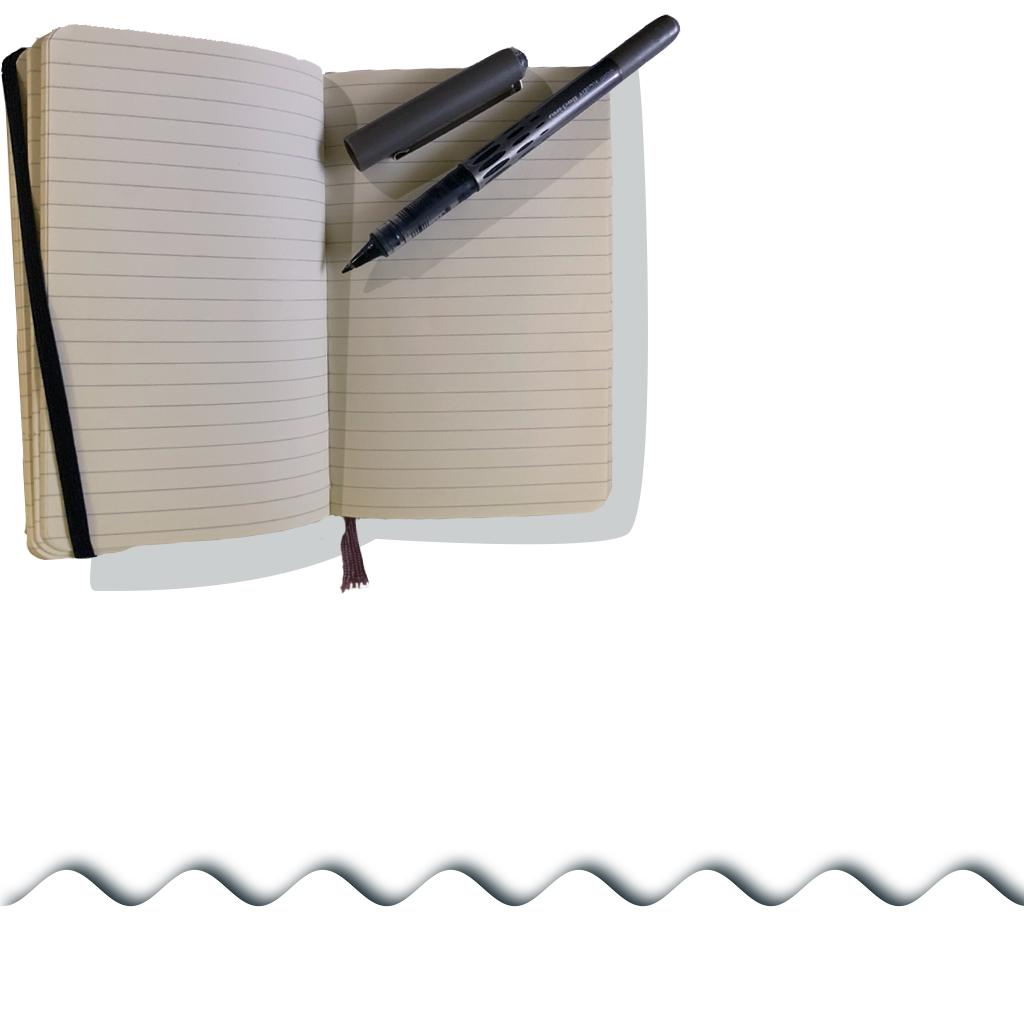
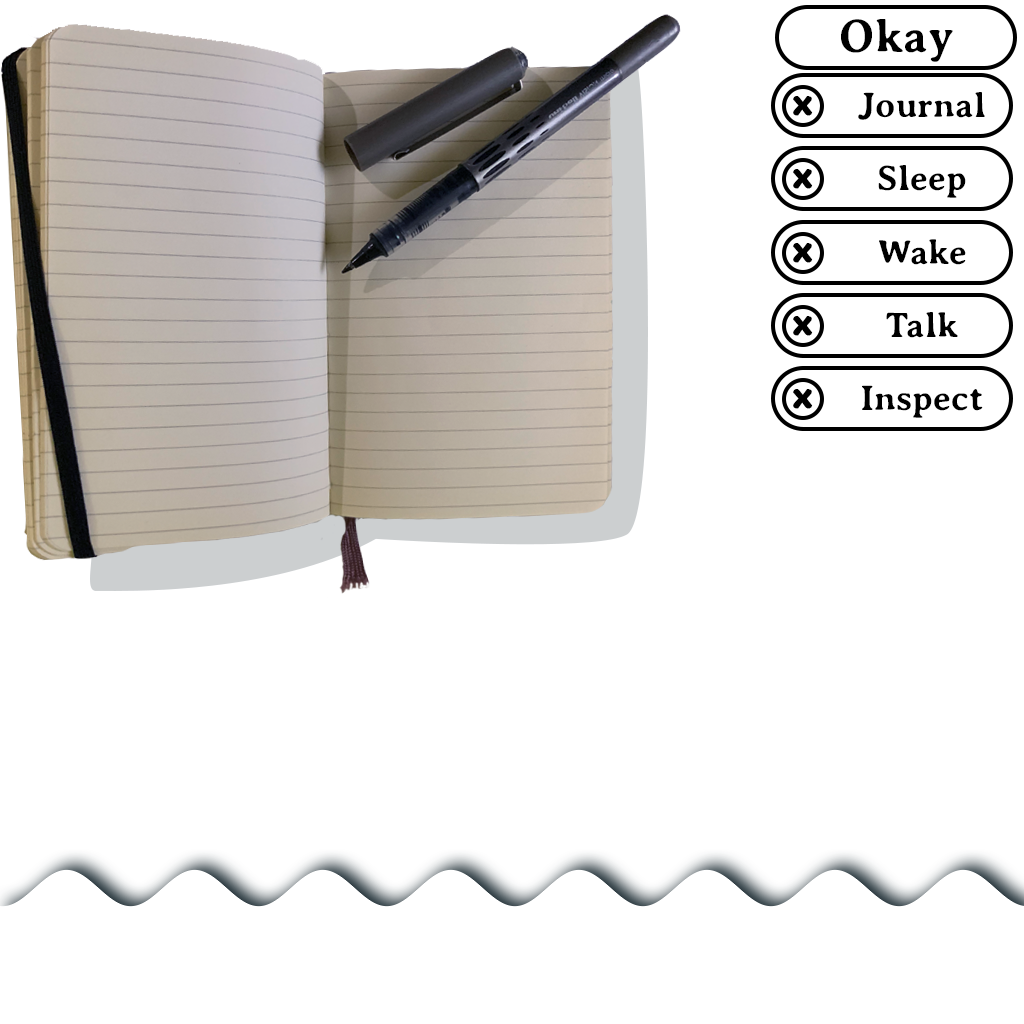
Got jounral working

Changed region(s): [[0.75, 0.0, 1.0, 0.4375]]

diff --git a/ld48_deeper/ld48_deeper.cpp b/ld48_deeper/ld48_deeper.cpp
@@ -79,6 +79,16 @@ typedef struct Actor_s
 #define CAM_HITE_ZOOMED ( 7.0f )
 #define CAM_HITE_WIDE ( 30.0f )
 
+enum {
+    ACTION_None,
+
+    ACTION_Journal,
+    ACTION_Sleep,
+    ACTION_Wake,
+    ACTION_Talk,
+    ACTION_Inspect,
+};
+
 #define MAX_KEYCODE (400)
 typedef struct GameState_s
 {
@@ -92,6 +102,13 @@ typedef struct GameState_s
     TKSpriteHandle spriteUIRoundRect;
     TKSpriteHandle spriteUIWaves;
 
+    TKSpriteHandle btnOkay;
+    TKSpriteHandle btnJournal;
+    TKSpriteHandle btnSleep;
+    TKSpriteHandle btnWake;
+    TKSpriteHandle btnTalk;
+    TKSpriteHandle btnInspect;
+
     uint64_t ticks;
 
     glm::vec3 camFocus;
@@ -100,7 +117,8 @@ typedef struct GameState_s
     float camHiteTarget;
 
     // UI stuff
-    bool show_journal;
+    int availAction;
+    bool show_journal;    
     bool show_wordlist;
     bool show_dialog;
 
@@ -211,11 +229,19 @@ static void init()
     game.spriteUIRoundRect = tk_sprite_make_st( "ui_stuff.png", glm::vec2( 0.0f, 748.0 / 1024.0 ), glm::vec2( 1.0, 844.0 / 1024.0) );
     game.spriteUIHalftone = tk_sprite_make_st( "ui_stuff.png", glm::vec2( 0.0f, 645.0 / 1024.0 ), glm::vec2( 1.0, 717.0 / 1024.0) );
     
+    float buttonSz = 72.0f;
+    game.btnOkay = tk_sprite_make_st( "ui_stuff.png", glm::vec2( 748.0 / 1024.0, 0.0f), glm::vec2( 1.0f, 72.0f / 1024.0 ) );
+    game.btnJournal = tk_sprite_make_st( "ui_stuff.png", glm::vec2( 748.0 / 1024.0, (buttonSz * 1.0f) / 1024.0f), glm::vec2( 1.0f, (buttonSz * 2.0f) / 1024.0f ) );
+    game.btnSleep;
+    game.btnWake;
+    game.btnTalk;
+    game.btnInspect;
+
     tk_sprite_mark_ui( "ui_stuff.png" );
 
     game.camHite = CAM_HITE_WIDE;
     game.camHiteTarget = CAM_HITE_ZOOMED;
-    game.currRoom = &room_Level_0;
+    game.currRoom = &room_LivingRoom;
 
     game.player.pos = glm::vec3( 9.5f, -5.5f, 0.0f );
 
@@ -253,25 +279,28 @@ RoomInfo *room_for_world_pos( glm::vec3 pos )
     return NULL;
 }
 
-float emit_norm_text( FONScontext* fs, char *text, float cx, float cy )
+float emit_norm_text( FONScontext* fs, char *text, float cx, float cy, float fontSize )
 {
+
+    //sdtx_printf("EMIT: %3.0f %3.0f %s\n", cx, cy, text);
+
     uint32_t black32 = sfons_rgba(0, 0, 0, 255);
     fonsSetFont(fs, font.font_normal);
-    fonsSetSize(fs, 36.0f );
+    fonsSetSize(fs, fontSize );
     fonsSetColor(fs, black32 );
     return fonsDrawText(fs, cx, cy, text, NULL);
 }
 
-float emit_dream_text( FONScontext* fs, char *text, float cx, float cy )
+float emit_dream_text( FONScontext* fs, char *text, float cx, float cy, float fontSize )
 {
     uint32_t blue32  = sfons_rgba(0, 192, 255, 255); 
     fonsSetFont(fs, font.font_dream);
-    fonsSetSize(fs, 36.0f );
+    fonsSetSize(fs, fontSize );
     fonsSetColor(fs, blue32 );
     return fonsDrawText(fs, cx, cy, text, NULL);
 }
 
-void wrap_dream_text( float x0, float x1, float y, char *text )
+void wrap_dream_text( float x0, float x1, float y, char *text, float fontSize )
 {
     FONScontext* fs = font.fons;
     float cx = x0;
@@ -279,6 +308,9 @@ void wrap_dream_text( float x0, float x1, float y, char *text )
 
     // TODO randomize color
     uint32_t blue32  = sfons_rgba(0, 192, 255, 255); 
+
+    fonsSetFont(fs, font.font_normal);
+    fonsSetSize(fs, fontSize );
     
 
     char buff[1024];
@@ -296,28 +328,40 @@ void wrap_dream_text( float x0, float x1, float y, char *text )
             if (nextx > x1) {
 
                 *dst = '\0';
-                cx = emit_norm_text( fs, buff, cx, cy );
+                cx = emit_norm_text( fs, buff, cx, cy, fontSize );
+                
                 dst = buff;
 
                 // This will wrap
-                cy += 36.0f;
+                cy += fontSize;
                 cx = x0;
                 ch++;
                 continue;                
             }
         }
 
+        // newline
+        if (*ch=='\n') {
+            *dst = '\0';
+            cx = emit_norm_text( fs, buff, cx, cy, fontSize );
+            dst = buff;
+            cy += fontSize * 1.5;
+            cx = x0;
+            ch++;
+            continue;                
+        }
+
         // append char
         if (*ch == '[')
         {
             *dst = '\0';
-            cx = emit_norm_text( fs, buff, cx, cy );
+            cx = emit_norm_text( fs, buff, cx, cy, fontSize );
             dst = buff;
         }
         else if (*ch == ']')
         {
             *dst = '\0';
-            cx = emit_dream_text( fs, buff, cx, cy );
+            cx = emit_dream_text( fs, buff, cx, cy, fontSize );
             dst = buff;
         }
         else 
@@ -329,7 +373,8 @@ void wrap_dream_text( float x0, float x1, float y, char *text )
     }
 
     if (strlen(buff)) {
-        emit_norm_text( fs, buff, cx, cy );
+        *dst = '\0';
+        emit_norm_text( fs, buff, cx, cy, fontSize );
     }
 
     /*
@@ -421,12 +466,18 @@ void frame()
             // Check if we're on a journal square
             if (room && room->journal.text)
             {
-                if (!room->journal.viewed)
-                {
-                    if ( (tx >= room.journal.tx) && (tx < room.journal.tx + room.journal.w) &&
-                         (ty >= room.journal.ty) && (ty < room.journal.ty + room.journal.h) ) {
-                        show_journal = true;
+                if ( (tx >= room->journal.tx) && (tx < room->journal.tx + room->journal.w) &&
+                    (ty >= room->journal.ty) && (ty < room->journal.ty + room->journal.h) ) {
+
+                    if (!room->journal.viewed)
+                    {
+                        game.show_journal = true;
+                    } else {
+                        // Let player view it again
+                        game.availAction = ACTION_Journal;
                     }
+                } else if (game.availAction == ACTION_Journal) {
+                    game.availAction = ACTION_None;
                 }
             }
         }
@@ -481,7 +532,7 @@ void frame()
     sgl_defaults();
     sgl_load_matrix( glm::value_ptr( cam ));
 
-    sdtx_printf("TILE: %d   %d\n", tx, ty );
+    //sdtx_printf("TILE: %d   %d\n", tx, ty );
 
 /*
     float rx = 0.0f;
@@ -549,10 +600,10 @@ void frame()
     {
         tk_push_sprite_scaled( game.spriteUIJournal, glm::vec3( canv_width / 2.0f, canv_height / 2.0f, 0.0f ), 500.0f );
 
-
+        //tk_push_sprite_scaled( game.btnOkay, glm::vec3( canv_width / 3.0f, canv_height / 4.0f, 0.0f ), 500.0 );
+        tk_push_sprite_scaled( game.btnOkay, glm::vec3( (canv_width / 2.0f) + 130.0f, 300.0f, 0.0f ), 300.0 );
     }
-
-    if (game.show_dialog)
+    else if (game.show_dialog)
     {
         //void tk_push_sprite_all( TKSpriteHandle sh, glm::vec3 pos, float scale, glm::vec4 color, float angle_deg );
         
@@ -567,8 +618,11 @@ void frame()
         tk_push_sprite_all( game.spriteUIRoundRect, glm::vec3( 0.0f, 250.0f, 0.0f), 380.0f, 
             glm::vec4( 100.0/255.0f, 30.0/255.0f, 250.0/255.0f, 1.0f), 0.0f );
 
-        
-
+    } else {
+        // No UI is up, show avail action if there is one
+        if (game.availAction != ACTION_None) {
+            tk_push_sprite_scaled( game.btnJournal, glm::vec3( (canv_width / 2.0f), 80.0f, 0.0f ), 400.0 );       
+        }
     }
 
     float textSz = 800.0f;// 800 "virtual" pixels
@@ -588,8 +642,8 @@ void frame()
     
         if (game.show_journal) {
             float col_journalstart = (canv_width / 2.0f) - 300.0f;
-            float col_journalend = (canv_width / 2.0f) + 100.0f;
-            wrap_dream_text( col_journalstart, col_journalend, 120.0f, currRoom->journal.text );
+            float col_journalend = (canv_width / 2.0f) - 100.0f;
+            wrap_dream_text( col_journalstart, col_journalend, 120.0f, game.currRoom->journal.text, 18.0f );
 
         } else if (game.show_wordlist) {
             float col_dreamword = (canv_width / 2.0f) - 300.0f;
@@ -645,8 +699,8 @@ void frame()
                 " but instead of your [Numbers] I use a list of [Seabirds]: [Tern], [Awk], [Seagull], [albatross]. "
                 "How a [Ship] having passed the [Line] was driven by [storms] to the cold [Country] towards the South Pole; "
                 "and how from thence she made her course to the tropical Latitude of the Great Pacific Ocean; and of " 
-                "the strange things that befell; and in what manner the Ancyent Marinere came back to his own Country."
-                );
+                "the strange things that befell; and in what manner the Ancyent Marinere came back to his own Country.",
+                36.0f );
 
             // fonsSetFont(fs, font.font_normal);
             // fonsSetSize(fs, 72.0f );
@@ -706,6 +760,23 @@ static void event(const sapp_event* e) {
                     game.camHiteTarget = CAM_HITE_WIDE;
                 }
             }
+            else if ((e->key_code == SAPP_KEYCODE_X) || (e->key_code == SAPP_KEYCODE_Z) || (e->key_code == SAPP_KEYCODE_SPACE)) {
+
+                if (game.show_journal) {
+                    game.currRoom->journal.viewed = true;
+                    game.show_journal = false;
+                } else {
+                    // Do avail actions
+                    if (game.availAction == ACTION_Journal) 
+                    {
+                        game.currRoom->journal.viewed = false;
+                        game.show_journal = true;
+                    }
+                }
+
+            }
+
+            // DEBUG KEYS
             else if (e->key_code == SAPP_KEYCODE_J) {
                 game.show_journal = !game.show_journal;
             }

diff --git a/ld48_deeper/level-data.cpp b/ld48_deeper/level-data.cpp
@@ -200,8 +200,8 @@ RoomInfo room_LivingRoom = {
     .journal = {
         .tx = 2, .ty = 7, .w = 3, .h = 2,
         .text = 
-        "I am hoping the quiet and peaceful of this cottage in countryside of Dordogne would be a salve for my much-frustrated writing.\n"
-        "I mean to uncover the language of dreams. It feels important, almost urgent to do so. Therefore, this morning after waking I have resolved not to leave the house until I have learned five words of it.\n";
+        "I am hoping the quiet and peaceful surroundings of this cottage in the countryside of Dordogne will be a salve for my much-frustrated writing.\n"
+        "I mean to uncover the language of dreams. It feels important, almost urgent to do so. Therefore, this morning after waking I have resolved not to leave the house until I have learned five words of it.\n",
      },
 };
 

diff --git a/ld48_deeper/tk_sprite.cpp b/ld48_deeper/tk_sprite.cpp
@@ -131,7 +131,8 @@ void tk_sprite_init_system( TKSpriteSystemDesc info )
             "varying vec2 uv;\n"
             "void main() {\n"
             "  gl_FragColor = texture2D(tex, uv) * color;\n"
-            //"  gl_FragColor = vec4( uv.x, uv.y, 0.5, 1.0 );\n"
+            //"  vec3 cc = texture2D(tex, uv).rgb * color.rgb;\n"
+            //"  gl_FragColor = vec4( cc, 0.8 );\n"
             "}\n";
     shader_desc.attrs[0].name = "position";
 	shader_desc.attrs[1].name = "color0";

diff --git a/ld48_deeper/ldtk2c.py b/ld48_deeper/ldtk2c.py
@@ -157,9 +157,7 @@ def dumpLevelData( world ):
 			for line in level.journalText.split('\n'):
 				line = line.strip()
 				fp.write(f'\n        "{line}\\n"');
-			fp.write(f';\n');
-
-			fp.write(f'     }},\n')
+			fp.write(f',\n     }},\n')
 
 		fp.write(f"}};\n\n\n")
 
